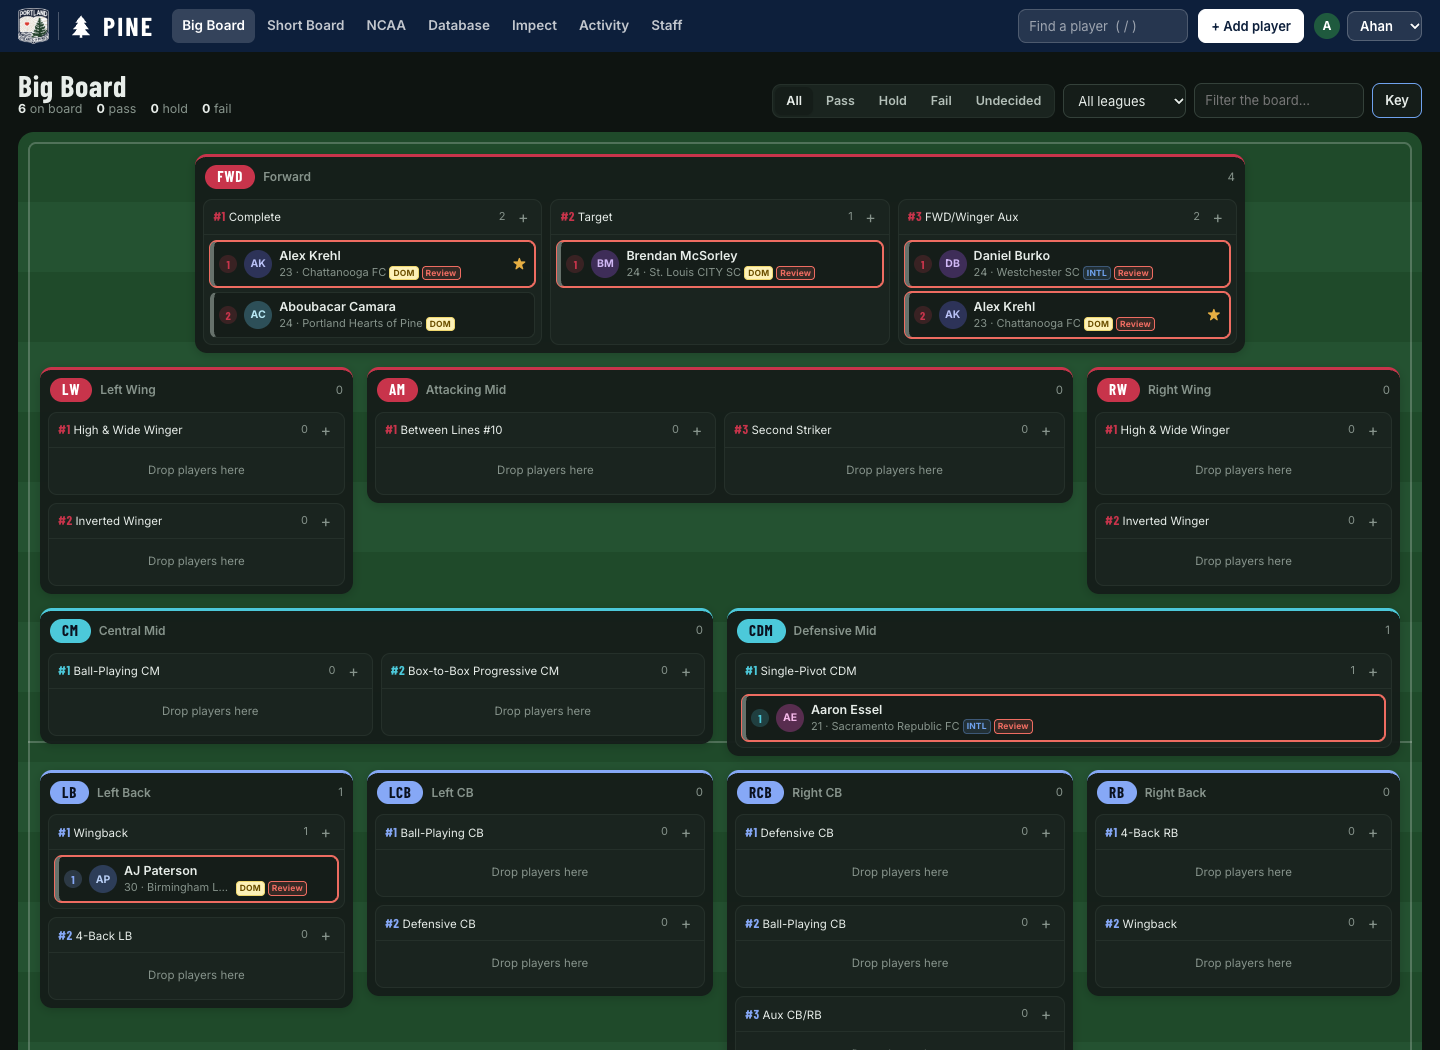
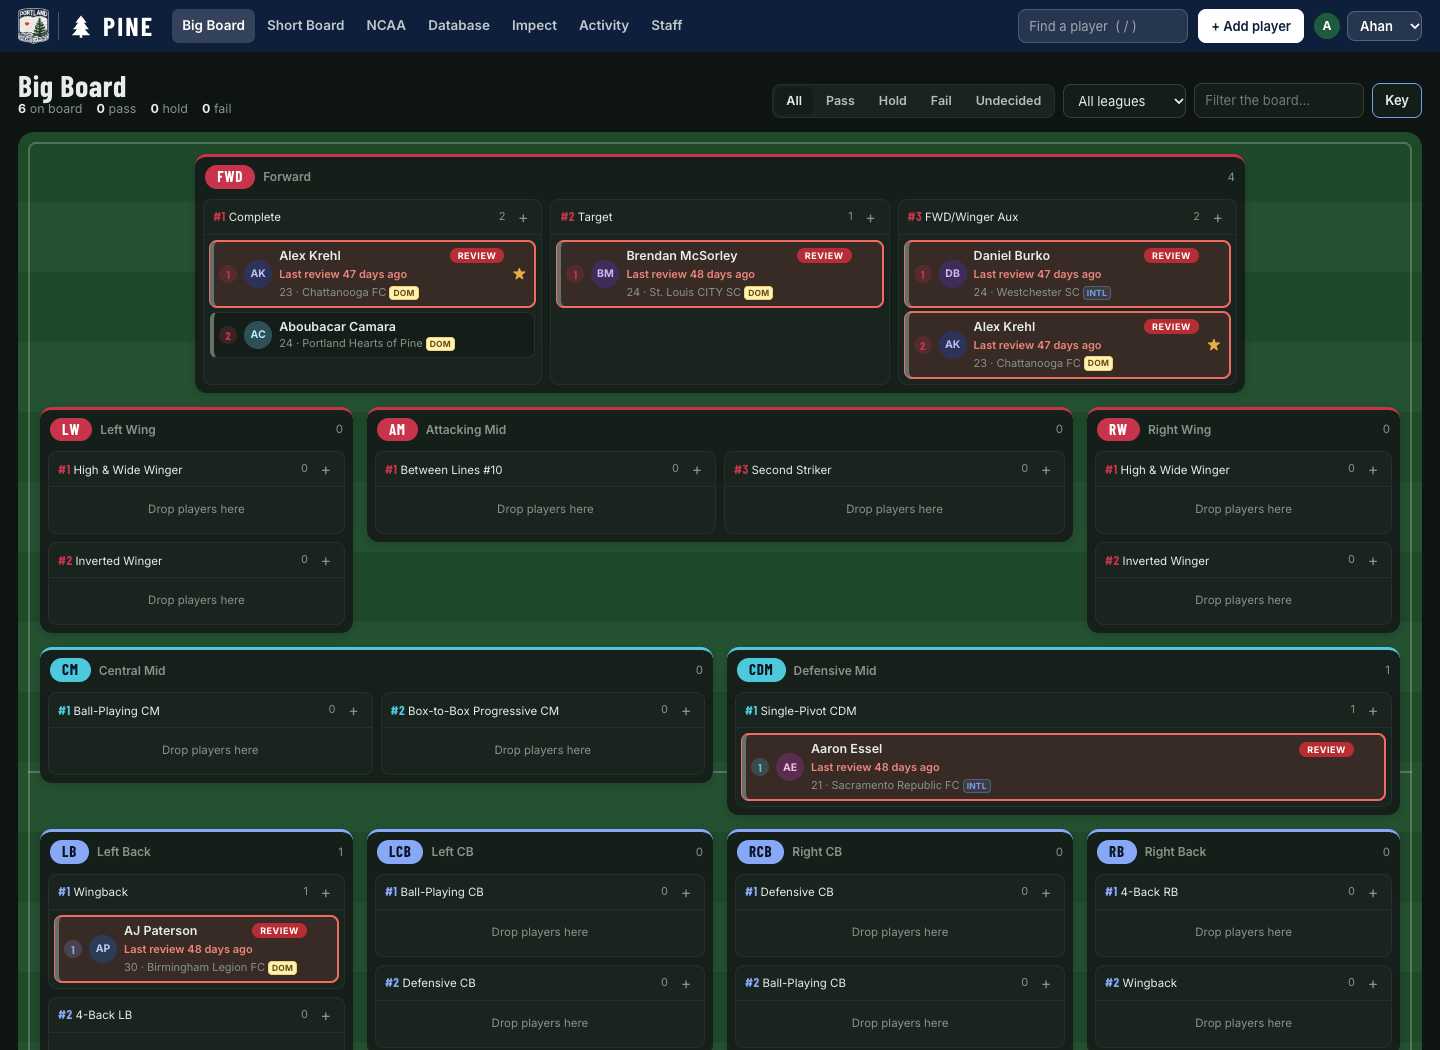
Refine stale cards with a red tint, review pill and visible age

diff --git a/public/app.js b/public/app.js
@@ -493,7 +493,7 @@ function legendHTML(ncaa = false, bigBoard = false) {
   return `<details class="legend"><summary class="btn">Key</summary><div class="lg-pop">
     ${item(`<span class="lg-stripe"></span>`, "Left stripe: the club decision (green pass, amber hold, red fail)")}
     ${item(signedBadge({ is_signed: true }), "Officially signed to Hearts of Pine; magenta frame on the player card")}
-    ${bigBoard ? item(`<span class="roster review">Review</span>`, `Red border: no review in ${S.config.review_after_days} days or more (including starred players); hover for days since last review`) : ""}
+    ${bigBoard ? item(`<span class="roster review">Review</span>`, `Red card and Review pill: no review in ${S.config.review_after_days} days or more (including starred players); the card shows days since last review`) : ""}
     ${ncaa ? item(`<span class="bbtag">BB</span>`, "On the Big Board, the college players being pursued; hover anyone else for + BB")
       : item(`<span class="vdots"><i class="vdot v-pass"></i><i class="vdot v-hold"></i><i class="vdot"></i></span>`, "Staff verdicts, one dot per person (shown once anyone has one)")}
     ${item("★", "Top target: on the Short Board")}
@@ -521,6 +521,8 @@ function boardCard(p, role, targetsOnly = false, spot = null) {
   const needsReview = Boolean(role && !targetsOnly && days != null && days >= S.config.review_after_days);
   // Outside tagRow's three-tag limit: Review must always remain visible.
   const review = needsReview ? `<span class="roster review" title="Last review ${days} days ago">Review</span>` : "";
+  const heading = needsReview ? `<span class="review-heading">${nameWithMark(p)}${review}</span>` : nameWithMark(p);
+  const reviewAge = needsReview ? `<span class="review-age">Last review ${days} days ago</span>` : "";
   // College clubs carry the school in brackets ("Indiana Hoosiers (Indiana University)"); the team name is enough here.
   const club = p.club && isNcaa(p) ? p.club.replace(/\s*\([^)]*\)\s*$/, "") : p.club;
   const sub = [p.age, club].filter((x) => x != null && x !== "").join(" · ") || p.position || "";
@@ -531,7 +533,7 @@ function boardCard(p, role, targetsOnly = false, spot = null) {
     aria-pressed="${on}" title="${on ? "Remove from the Short Board" : "Add to the Short Board as a top target"}">${on ? "★" : "☆"}</span>` : "";
   return `<a class="pcard ${needsReview ? "needs-review" : ""} ${p.is_signed ? "is-signed" : ""} ${p.decision ? "v-" + p.decision : ""}" href="#/player/${p.id}" draggable="true" data-pid="${p.id}" ${role ? `data-role="${role}"` : ""}>
     ${role ? `<span class="rank ${place < 3 ? "podium" : ""}">${place + 1}</span>` : ""}${photo(p)}
-    <span class="ci">${nameWithMark(p)}<div class="nm-row"><span class="csub">${esc(sub)}</span>${tagRow([rosterBadge(p), ncaaBadge(p), l2Badge(p.l2)])}${review}</div></span>${Object.keys(p.verdicts || {}).length ? verdictDots(p.verdicts) : ""}${star}</a>`;
+    <span class="ci">${heading}${reviewAge}<div class="nm-row"><span class="csub">${esc(sub)}</span>${tagRow([rosterBadge(p), ncaaBadge(p), l2Badge(p.l2)])}</div></span>${Object.keys(p.verdicts || {}).length ? verdictDots(p.verdicts) : ""}${star}</a>`;
 }
 
 // Star clicks and Enter/Space on a star, on either board.

diff --git a/public/styles.css b/public/styles.css
@@ -246,7 +246,12 @@ label.lbl, .lbl { display: block; font-size: 11px; font-weight: 600; letter-spac
 /* Unknown roster status: a dashed prompt, not a status. */
 .roster.unk { color: var(--muted); background: transparent; border: 1px dashed var(--line-2); padding: 2px 5px; }
 .roster.more { color: var(--ink-2); background: var(--surface-2); border: 1px solid var(--line-2); cursor: help; }
-.roster.review { color: var(--fail); background: var(--fail-bg); border: 1px solid var(--fail); cursor: help; }
+.roster.review { color: #fff; background: #b72d34; border: 0; border-radius: 999px; padding: 3px 8px;
+  font-size: 9px; letter-spacing: .06em; text-transform: uppercase; cursor: help; }
+.review-heading { display: flex; align-items: center; flex-wrap: wrap; gap: 3px 8px; }
+.review-heading > .name-line { flex: 1 1 100px; }
+.review-age { display: block; margin: 2px 0 3px; color: color-mix(in srgb, var(--fail) 80%, var(--ink));
+  font-size: 11px; font-weight: 600; line-height: 1.35; }
 /* Board key: a small popover of what each mark means. */
 .legend { position: relative; }
 .legend > summary { list-style: none; }
@@ -854,7 +859,7 @@ details[open] > summary .kpi-chev { transform: rotate(45deg); }
 .pcard.is-signed .nm { color: var(--ink); }
 /* Big Board review flag keeps the decision stripe and takes priority over a signing frame. */
 .pcard.needs-review, .pcard.needs-review:hover { border-top-color: var(--fail); border-right-color: var(--fail); border-bottom-color: var(--fail);
-  box-shadow: 0 0 0 1px var(--fail); }
+  background: color-mix(in srgb, var(--fail) 16%, var(--surface)); box-shadow: 0 0 0 1px var(--fail); }
 .pcard.is-signed .name-line, .nrow.is-signed .name-line { flex-wrap: wrap; gap: 2px 5px; }
 .nrow.is-signed { border-top: 1px solid var(--signed); border-right: 1px solid var(--signed); border-bottom: 1px solid var(--signed); box-shadow: inset 0 0 0 1px var(--signed); }
 .signing-toggle { align-self: flex-start; }

diff --git a/scripts/review.test.js b/scripts/review.test.js
@@ -90,7 +90,8 @@ test("Big Board flags at exactly 28 days, including stars and all roles; Short B
     const card = ctx.boardCard(p, role);
     assert.match(card, /needs-review/);
     assert.match(card, /title="Last review 28 days ago">Review<\/span>/);
-    assert.match(card, /L2<\/span><span class="roster review"/); // separate from tagRow
+    assert.match(card, /class="review-heading">Example<span class="roster review"/); // separate from tagRow
+    assert.match(card, /class="review-age">Last review 28 days ago<\/span>/);
     assert.match(card, /class="star on"/);
   }
   assert.doesNotMatch(ctx.boardCard(p, "FWD1", true, 0), /needs-review|>Review</);
@@ -103,6 +104,7 @@ test("Big Board flags at exactly 28 days, including stars and all roles; Short B
   const originalTags = ctx.tagRow;
   ctx.tagRow = (tags) => originalTags([...tags, "<span>Extra</span>"]);
   const crowded = ctx.boardCard(p, "FWD1");
-  assert.match(crowded, /\+1<\/span><span class="roster review"/);
+  assert.match(crowded, /\+1<\/span>/);
+  assert.match(crowded, /class="review-heading">Example<span class="roster review"/);
   assert.doesNotMatch(crowded, /title="[^"]*Review/);
 });

diff --git a/docs/screenshots/review/README.md b/docs/screenshots/review/README.md
@@ -2,6 +2,9 @@
 
 Captured from the running app on 2026-11-03 at 1440 × 1050 (desktop) and
 400 × 1000 (phone), using browser light/dark media emulation.
+Stale cards use a soft red fill, a solid REVIEW pill beside the name and a visible
+review-age line, following the supplied design reference. The Big Board threshold
+remains 28 days; Short Board and NCAA views are unchanged.
 
 The players are real public player identities from the existing local snapshot.
 All board placements, ranks and stars are demonstration data. No club notes,
@@ -17,6 +20,8 @@ activity keep their original PINE creation timestamp.
 - **Aboubacar Camara** was marked reviewed using the new player-page button in
   this isolated database; his card has no flag beside the stale cards.
 - `big-board-key.png` shows the new Key entry.
+- `big-board-detail-light.png` and `big-board-detail-dark.png` show the refined
+  cards up close, including the stale starred and freshly reviewed examples.
 - `mark-reviewed.png` shows the player-page button.
 
 Browser checks also verified that marking Alex reviewed clears both of his flags,

diff --git a/README.md b/README.md
@@ -153,8 +153,9 @@ change their club details or alter board ranks. Changes are saved in Activity. T
 syncs leave the signing status alone.
 
 - **Big Board** (`#/board`): pitch layout of all 11 positions and 25 roles from the depth chart. Cards
-  get a red border and **Review** tag after 28 days without a review, including starred players on this view.
-  Hover the tag for **Last review N days ago**. A review is a staff note added or edited, a verdict or club
+  get a soft red background, red border and solid **REVIEW** pill after 28 days without a review, including
+  starred players on this view. **Last review N days ago** appears on the card and on hover over the pill.
+  A review is a staff note added or edited, a verdict or club
   decision set, a board role added, a card moved on the Big Board, or **Mark reviewed** on the player page.
   The clock is per player across all roles, using visible staff activity; automated syncs, Impect refreshes
   and card requests do not count. With no qualifying activity it starts when the player was added to PINE,
